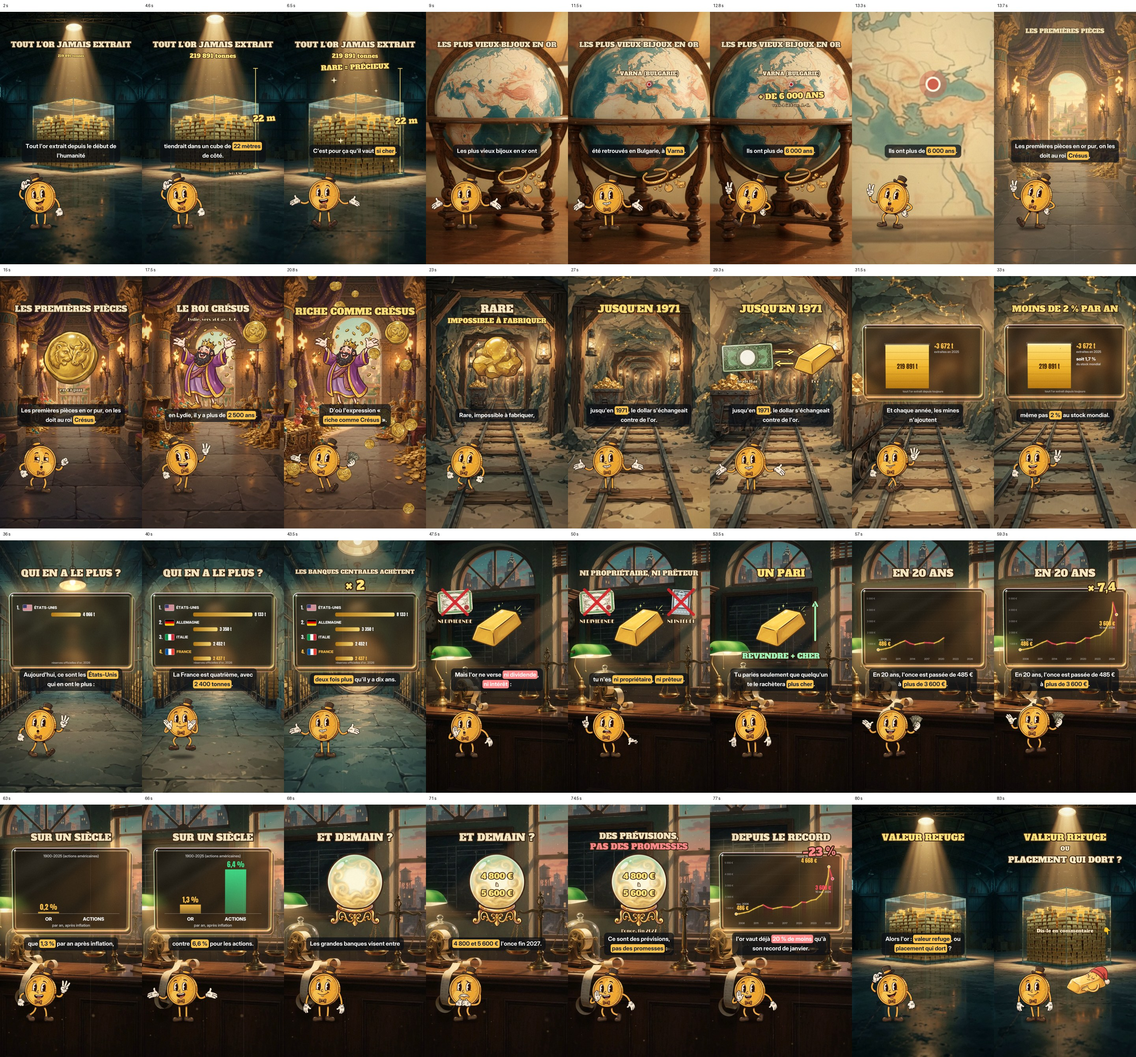
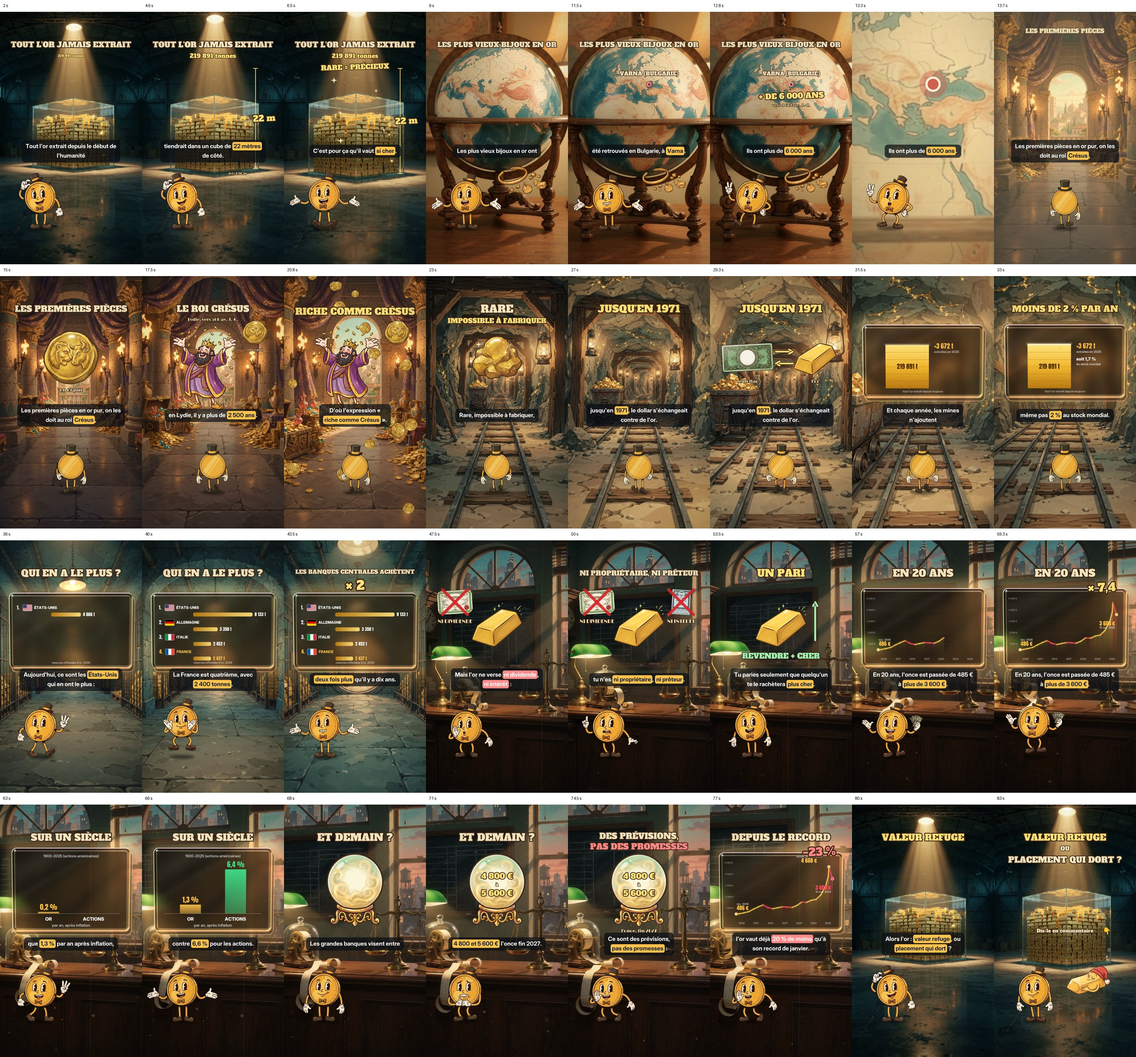
Or : Mister Coin de dos qui marche dans le trésor et la mine (travelling)
Claude-Session: https://claude.ai/code/session_01VFT2ZKYV9NwmFvCsfcTKi7

diff --git a/episodes/2026-11-12_or/video_col.py b/episodes/2026-11-12_or/video_col.py
@@ -74,6 +74,27 @@ def coin_col(cv_rgb, t):
     if fx is not None:
         m = np.zeros((H, W), np.float32); cv2.ellipse(m, (int(fx), V.FEET-3), (95, 15), 0, 0, 360, .5, -1); cv_rgb *= (1-cv2.GaussianBlur(m, (0, 0), 9)[..., None])
     return cv_rgb*(1-al[..., None])+rgb_.astype(np.float32)*al[..., None]
+# Mister Coin de dos qui marche (scènes 3 et 4, travelling dans le trésor puis dans la mine) : clip classique_dos_marche en boucle sur deux pas
+DOS = (13.5, 33.7); DOS_CLIP = f'{S.ROOT}/mister_coin/veo/classique_dos_marche.mp4'; DOS_L0, DOS_L1 = 61, 128; DOS_X = 540                    # de dos, il marche au milieu de l allée et des rails
+class _Dos:
+    def __init__(s): s.cap = None; s.i = -1; s.f = None
+    def get(s, n):
+        if s.cap is None or n < s.i: s.cap = cv2.VideoCapture(DOS_CLIP); s.i = -1
+        while s.i < n:
+            ok, fr = s.cap.read(); s.i += 1
+            if ok: s.f = fr
+        return s.f
+_DS = _Dos()
+def dos_col(cv_rgb, t):
+    n = 40+int((t-DOS[0])*24)
+    if n >= DOS_L1: n = DOS_L0+(n-DOS_L0) % (DOS_L1-DOS_L0)
+    rgb_, m = VC._key(_DS.get(n)[..., ::-1].copy()); sc = 170/314
+    rgb_ = cv2.resize(rgb_.astype(np.float32), None, fx=sc, fy=sc, interpolation=cv2.INTER_AREA); m = cv2.resize(m.astype(np.float32), None, fx=sc, fy=sc, interpolation=cv2.INTER_AREA)
+    x0, y0 = int(DOS_X-360*sc), int(V.FEET-1035*sc); h, w = m.shape
+    sh = np.zeros((H, W), np.float32); cv2.ellipse(sh, (DOS_X, V.FEET-3), (95, 15), 0, 0, 360, .5, -1); cv_rgb *= (1-cv2.GaussianBlur(sh, (0, 0), 9)[..., None])
+    ya, yb_, xa, xb = max(0, y0), min(H, y0+h), max(0, x0), min(W, x0+w)
+    mm = m[ya-y0:yb_-y0, xa-x0:xb-x0][..., None]; cv_rgb[ya:yb_, xa:xb] = cv_rgb[ya:yb_, xa:xb]*(1-mm)+rgb_[ya-y0:yb_-y0, xa-x0:xb-x0]*mm
+    return cv_rgb
 RED = 'B3161B'; CREAM = 'F6E7C1'; BROWN = '3B2412'; CHALK = 'F3F1E8'; SKY = '4361EE'
 # ================= accessoires Gemini (détourés, dossier props/) =================
 _PS = {}
@@ -454,7 +475,7 @@ def frame(t):
         u = ((t-(ZT-ZD))/ZD)**2; arr = zoomed(arr, 1+7*u, VARNA[0], VARNA[1], .85*u)
     elif ZT <= t < ZT+ZD:                                                    # la Lydie apparaît en reculant
         u = 1-ease((t-ZT)/ZD); arr = zoomed(arr, 1+.9*u, 540, 700, .85*u)
-    arr = coin_col(arr, t)
+    arr = dos_col(arr, t) if DOS[0] <= t < DOS[1] else coin_col(arr, t)
     fl = film(arr.copy(), t); arr = arr*.72+fl*.28
     out = Image.fromarray(np.clip(arr, 0, 255).astype(np.uint8)).convert('RGBA')
     s, c = surface(); cap_c(c, t); out.alpha_composite(to_img(s))
@@ -472,7 +493,7 @@ def cap_c(c, t):
             al = ease((t-a+.05)/.12)*(1-ease((t-(end-.12))/.12) if end-b > .1 or k+1 >= len(V.CAPS) else 1)
             S.caption(c, s_, hl=S.GD if hl in (S.GD, S.GR) else 'FF8A8A', a=al); return
 def events():
-    ev = V.events() + [(ta-IR, 'whoosh') for ta in IRIS] + [(ZT-ZD, 'riser'), (ZT, 'glint')]
+    ev = [e for e in V.events() if not (DOS[0]-.1 <= e[0] < DOS[1])] + [(ta-IR, 'whoosh') for ta in IRIS] + [(ZT-ZD, 'riser'), (ZT, 'glint')]
     ev += [(.05, 'thud'), (1.95, 'pop'), (3.4, 'swish'), (3.9, 'impact'), (4.3, 'pop'), (5.4, 'glint'),
            (8.1, 'thud'), (8.8, 'pop'), (10.95, 'tick'), (11.2, 'pop'), (12.45, 'impact'),
            (13.65, 'thud'), (14.35, 'glint'), (16.15, 'tadaa'), (20.3, 'impact'),
